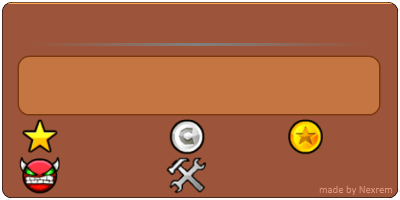
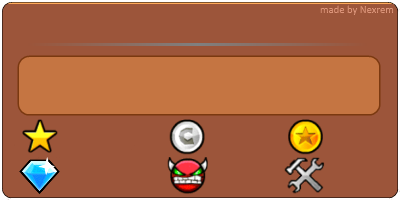
partial 2.1 support

diff --git a/main.js b/main.js
@@ -28,10 +28,6 @@ var app = express(); // creates new express app instance
 var port = process.env.PORT || 8080; // assign port. if no port given use localhost
 initExpress(); // initializes express port listening
 
-// ping self every 5 minutes
-setInterval( function() {
-	request.get('http://discord-gd-stats-bot2.herokuapp.com/wake.txt');
-}, 300000);
 
 //////////////////////////////////// INIT //////////////////////////////////////
 
@@ -51,6 +47,11 @@ client.Dispatcher.on("GATEWAY_READY", function(e) {
 	client.User.setStatus("online", config.playing); // online, playing
 	client.User.setUsername(config.name); // username
 });
+
+// ping self every 5 minutes
+setInterval( function() {
+	request.get(config["getTarget"]);
+}, 300000);
 
 
 //////////////////////////////// RUNTIME ///////////////////////////////////////
@@ -160,6 +161,7 @@ function getUserStats(GD_user, mseg) {
 							let DART = objectArray["25"]
 							let ROBOT = objectArray["26"]
 							let GLOW = objectArray["28"]
+							let DIAMONDS = objectArray["46"] || "0"
 
 							// display unknown for unknown icons and colors
 							if (parseInt(ICON) > icons.icon) ICON = "unknown"
@@ -177,7 +179,7 @@ function getUserStats(GD_user, mseg) {
 							)
 
 							// sends to card generator
-							generatePlayerCard(mseg, ICON, SHIP, BALL, UFO, DART, ROBOT, COLOR1, COLOR2, GLOW, USERNAME, COINS, USERCOINS, STARS, DEMONS, CREATORPOINTS);
+							generatePlayerCard(mseg, ICON, SHIP, BALL, UFO, DART, ROBOT, COLOR1, COLOR2, GLOW, USERNAME, COINS, USERCOINS, STARS, DEMONS, CREATORPOINTS, DIAMONDS);
 
 						};
 					});
@@ -275,7 +277,7 @@ function getLevelStats(GD_level, mseg) {
 };
 
 // player card generator function
-function generatePlayerCard(mseg, ICON, SHIP, BALL, UFO, DART, ROBOT, COL1, COL2, GLOW, USERNAME, COINS, USERCOINS, STARS, DEMONS, CREATORPOINTS) {
+function generatePlayerCard(mseg, ICON, SHIP, BALL, UFO, DART, ROBOT, COL1, COL2, GLOW, USERNAME, COINS, USERCOINS, STARS, DEMONS, CREATORPOINTS, DIAMONDS) {
 
 	// reads all image data
 	Jimp.read("./resources/player/skeleton-player.png", function(err0, skeletonPlayer) {
@@ -326,8 +328,9 @@ function generatePlayerCard(mseg, ICON, SHIP, BALL, UFO, DART, ROBOT, COL1, COL2
 											.print(font, 60, 117, STARS)
 											.print(font, 207, 117, USERCOINS)
 											.print(font, 325, 117, COINS)
-											.print(font, 60, 156, DEMONS)
-											.print(font, 207, 156, CREATORPOINTS)
+											.print(font, 60, 156, DIAMONDS)
+											.print(font, 207, 156, DEMONS)
+											.print(font, 325, 156, CREATORPOINTS)
 											// write file
 											.write(outputfile, function() {
 												// upload file
